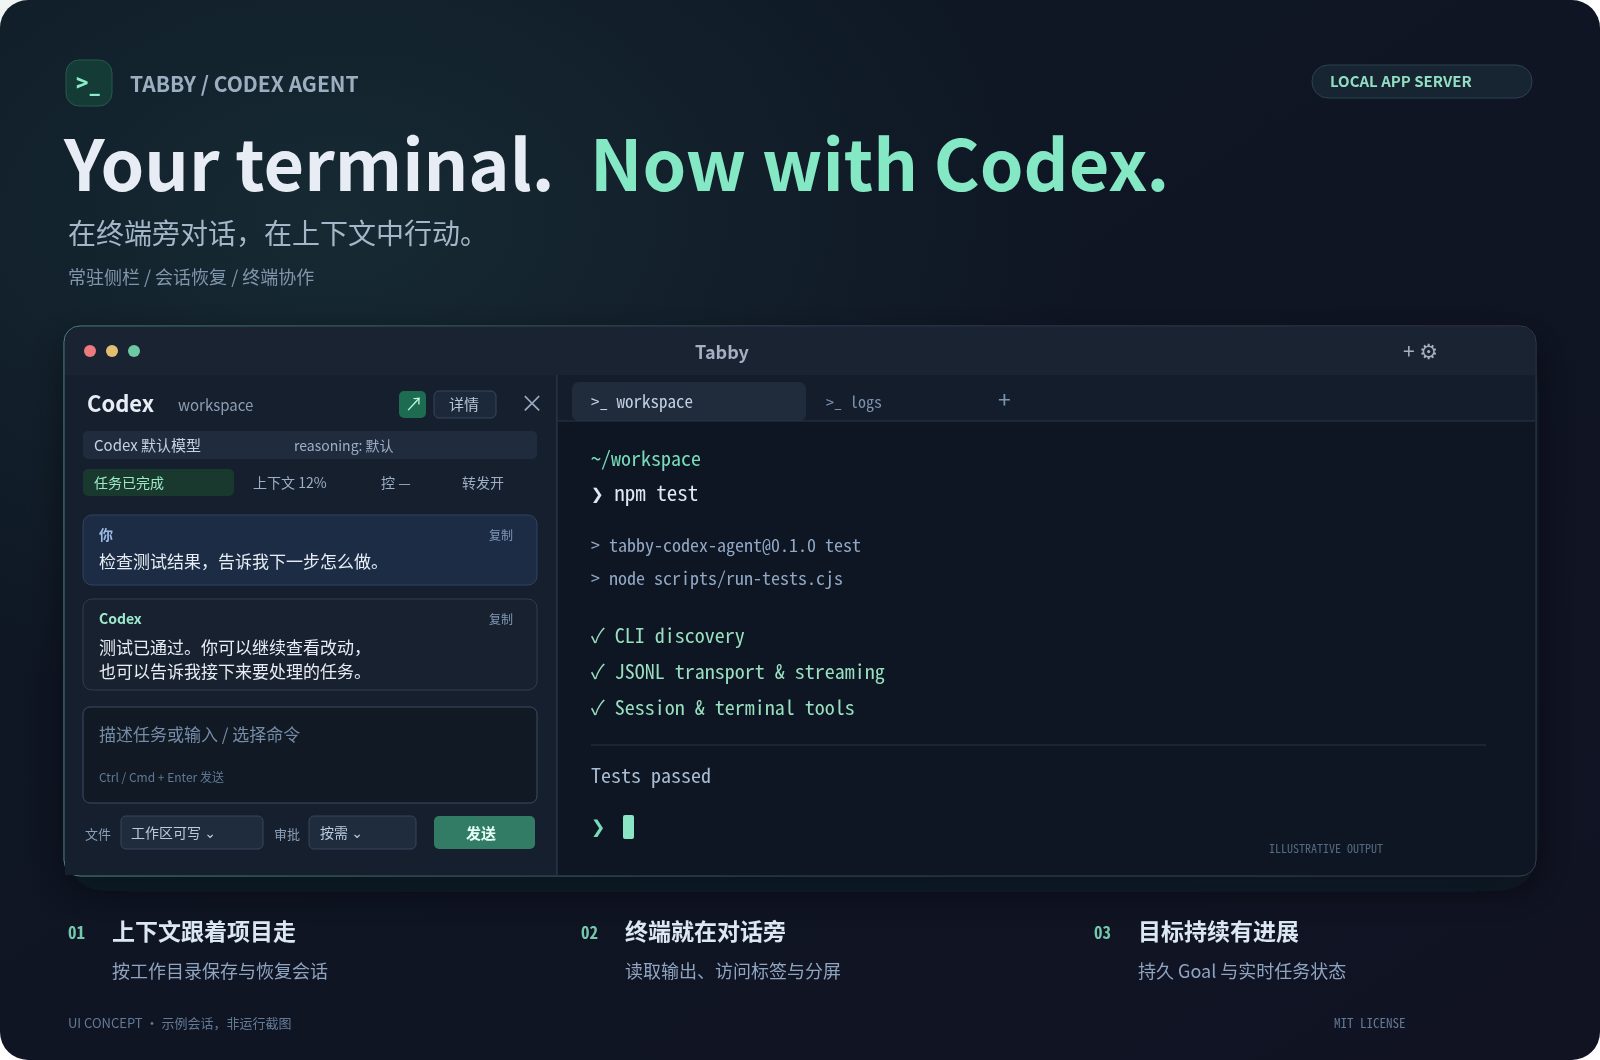
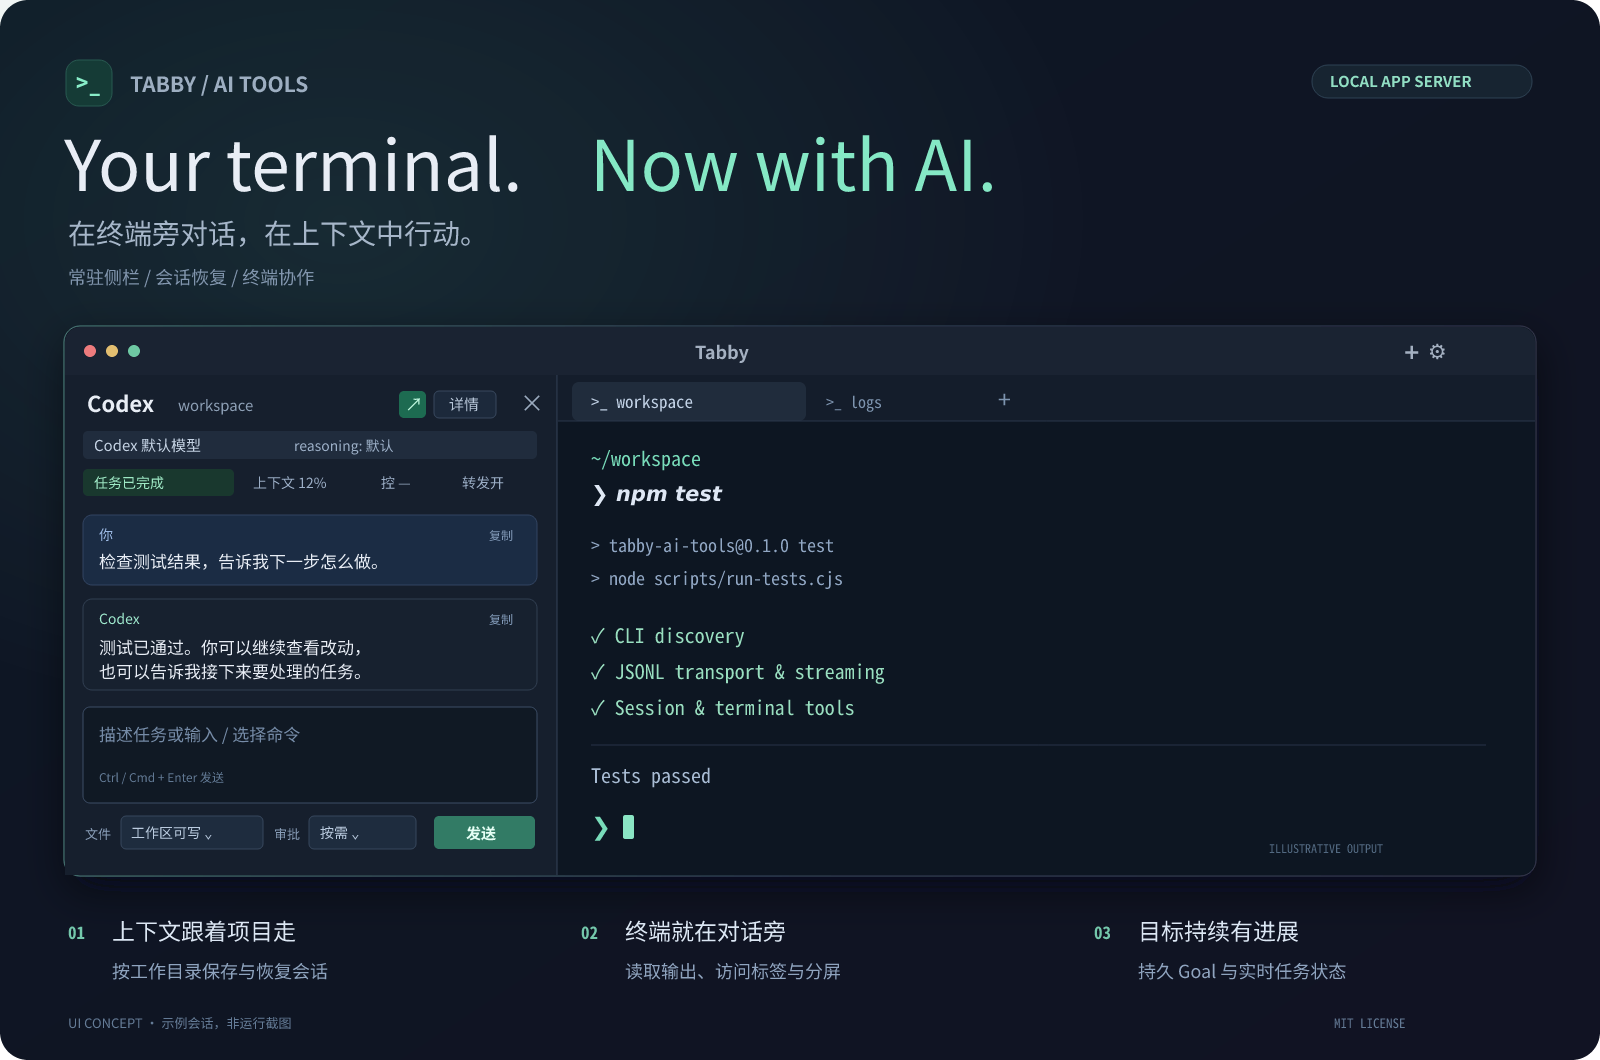
chore: rename plugin to Tabby AI Tools for npm release

diff --git a/src/button.ts b/src/button.ts
@@ -11,7 +11,7 @@ export class CodexToolbarButtonProvider extends ToolbarButtonProvider {
   constructor (private app: AppService, private config: ConfigService, private sidebar: CodexSidebarService, private notifications: NotificationsService) { super() }
 
   provide (): ToolbarButton[] {
-    return [{ icon: '<svg xmlns="http://www.w3.org/2000/svg" viewBox="0 0 24 24"><path fill="currentColor" d="M12 2a3 3 0 0 1 3 3v1h3a3 3 0 0 1 3 3v9a3 3 0 0 1-3 3H6a3 3 0 0 1-3-3V9a3 3 0 0 1 3-3h3V5a3 3 0 0 1 3-3Zm0 2a1 1 0 0 0-1 1v1h2V5a1 1 0 0 0-1-1ZM6 8a1 1 0 0 0-1 1v9a1 1 0 0 0 1 1h12a1 1 0 0 0 1-1V9a1 1 0 0 0-1-1H6Zm3 4a1.5 1.5 0 1 1 0 3 1.5 1.5 0 0 1 0-3Zm6 0a1.5 1.5 0 1 1 0 3 1.5 1.5 0 0 1 0-3Z"/></svg>', title: 'AI Agent', weight: 8, click: () => { void this.open().catch(error => console.error("Could not open Codex sidebar:", error)) } }]
+    return [{ icon: '<svg xmlns="http://www.w3.org/2000/svg" viewBox="0 0 24 24"><path fill="currentColor" d="M12 2a3 3 0 0 1 3 3v1h3a3 3 0 0 1 3 3v9a3 3 0 0 1-3 3H6a3 3 0 0 1-3-3V9a3 3 0 0 1 3-3h3V5a3 3 0 0 1 3-3Zm0 2a1 1 0 0 0-1 1v1h2V5a1 1 0 0 0-1-1ZM6 8a1 1 0 0 0-1 1v9a1 1 0 0 0 1 1h12a1 1 0 0 0 1-1V9a1 1 0 0 0-1-1H6Zm3 4a1.5 1.5 0 1 1 0 3 1.5 1.5 0 0 1 0-3Zm6 0a1.5 1.5 0 1 1 0 3 1.5 1.5 0 0 1 0-3Z"/></svg>', title: 'AI Tools', weight: 8, click: () => { void this.open().catch(error => console.error("Could not open Codex sidebar:", error)) } }]
   }
 
   private async open (): Promise<void> {
@@ -28,7 +28,7 @@ export class CodexToolbarButtonProvider extends ToolbarButtonProvider {
     }
     cwd = path.resolve(cwd)
     try { this.sidebar.show(cwd, sourceTerminal) } catch (error: any) {
-      this.notifications.error('无法打开 AI Agent 侧栏', String(error?.message || error))
+      this.notifications.error('无法打开 AI Tools 侧栏', String(error?.message || error))
       throw error
     }
   }

diff --git a/src/codex-client.ts b/src/codex-client.ts
@@ -60,7 +60,7 @@ export class CodexClient extends EventEmitter {
       detached: process.platform !== 'win32',
     }) as ChildProcessWithoutNullStreams
     let stderr = ''
-    const failure = (error: Error): Error => new Error(`${error.message}\nCodex CLI: ${executable}${stderr.trim() ? `\n${stderr.trim()}` : ''}\n请检查 Settings → AI Agent → codexAgent.executable。`)
+    const failure = (error: Error): Error => new Error(`${error.message}\nCodex CLI: ${executable}${stderr.trim() ? `\n${stderr.trim()}` : ''}\n请检查 Settings → AI Tools → codexAgent.executable。`)
     const streamError = (error: NodeJS.ErrnoException): void => {
       // A process that exits during startup may close stdin before its stderr
       // has drained. Let 'close' report the exit and the actual CLI error.
@@ -90,7 +90,7 @@ export class CodexClient extends EventEmitter {
     })
     try {
       await this.requestRaw('initialize', {
-        clientInfo: { name: 'tabby_codex_agent', title: 'Tabby Codex Agent', version: '0.1.0' },
+        clientInfo: { name: 'tabby_codex_agent', title: 'Tabby AI Tools', version: '0.1.0' },
         capabilities: { experimentalApi: true },
       })
     } catch (error: any) {

diff --git a/src/codex-runtime.service.ts b/src/codex-runtime.service.ts
@@ -55,7 +55,7 @@ export class CodexRuntimeService implements OnDestroy {
       if (this.stopped || executable !== this.configuredExecutable) return
       if (!this.errorReported) {
         this.errorReported = true
-        this.notifications.error('Codex 后台服务启动失败', `${error.message}。请检查 Settings → AI Agent → Codex CLI 可执行文件（codexAgent.executable），插件会自动重试。`)
+        this.notifications.error('Codex 后台服务启动失败', `${error.message}。请检查 Settings → AI Tools → Codex CLI 可执行文件（codexAgent.executable），插件会自动重试。`)
       }
       this.scheduleRetry()
     }

diff --git a/test/client.test.js b/test/client.test.js
@@ -296,7 +296,7 @@ rl.on('line', line => {
 `)
     await client.connect(executable)
     const result = await client.request('identity')
-    assert.deepEqual(result.clientInfo, { name: 'tabby_codex_agent', title: 'Tabby Codex Agent', version: '0.1.0' })
+    assert.deepEqual(result.clientInfo, { name: 'tabby_codex_agent', title: 'Tabby AI Tools', version: '0.1.0' })
     assert.deepEqual(result.overrides, [])
     assert.deepEqual(result.args, ['app-server', '--listen', 'stdio://'])
     assert.equal(process.env.CODEX_INTERNAL_ORIGINATOR_OVERRIDE, 'parent-identity')

diff --git a/src/codex-executable.ts b/src/codex-executable.ts
@@ -2,7 +2,7 @@ import * as fs from 'fs'
 import * as os from 'os'
 import * as path from 'path'
 
-const SETTING_HELP = '请在 Tabby Settings → AI Agent → Codex CLI 可执行文件（codexAgent.executable）中设置有效文件路径或命令名。'
+const SETTING_HELP = '请在 Tabby Settings → AI Tools → Codex CLI 可执行文件（codexAgent.executable）中设置有效文件路径或命令名。'
 const WINDOWS_EXTENSIONS = ['.exe', '.com', '.cmd', '.bat']
 
 export interface ExecutableContext {

diff --git a/src/codex-panel.component.ts b/src/codex-panel.component.ts
@@ -824,7 +824,7 @@ export class CodexPanelComponent implements AfterViewInit, OnDestroy {
       return
     }
     if (!session || session.cwd !== this.cwd || session.originator !== 'tabby_codex_agent') {
-      this.historyError = '所选会话不属于当前目录的 Tabby AI Agent，请刷新列表'
+      this.historyError = '所选会话不属于当前目录的 Tabby AI Tools，请刷新列表'
       return
     }
     if (session.id === this.threadId) { this.historyOpen = false; return }

diff --git a/src/api-agent.ts b/src/api-agent.ts
@@ -51,7 +51,7 @@ export class ApiAgent extends EventEmitter implements AgentBackend {
   get isConnected (): boolean { return this.connected }
 
   async connect (_settings: AgentSettings): Promise<void> {
-    if (!this.profile.model.trim()) throw new Error('请先在 AI Agent 设置中填写模型 ID')
+    if (!this.profile.model.trim()) throw new Error('请先在 AI Tools 设置中填写模型 ID')
     if (!this.connected) { this.connected = true; this.emit('connected') }
   }
 

diff --git a/test/user-input.test.js b/test/user-input.test.js
@@ -531,7 +531,7 @@ test('resume does not accept sessions created by another client', async () => {
   panel.cwd = '/project'
   panel.loading = false
   await panel.selectSession({ id: 'other', cwd: '/project', originator: 'codex_cli_rs' })
-  assert.match(panel.historyError, /Tabby AI Agent/)
+  assert.match(panel.historyError, /Tabby AI Tools/)
 })
 
 test('resume supports arrow selection and Enter while empty prompt remains unsent', () => {

diff --git a/src/sidebar.service.ts b/src/sidebar.service.ts
@@ -75,7 +75,7 @@ export class CodexSidebarService implements OnDestroy {
     }
     this.host = document.createElement('aside')
     this.host.className = 'codex-agent-sidebar'
-    this.host.setAttribute('aria-label', 'AI Agent 侧栏')
+    this.host.setAttribute('aria-label', 'AI Tools 侧栏')
     this.grip = document.createElement('div')
     this.grip.className = 'codex-sidebar-grip'
     this.grip.setAttribute('role', 'separator')

diff --git a/src/agent-secrets.service.ts b/src/agent-secrets.service.ts
@@ -9,7 +9,7 @@ export class AgentSecretsService {
     const source = apiKeySource(profile)
     if (source === 'direct') {
       const value = profile.apiKey?.trim()
-      if (!value) throw new Error('请在 AI Agent 设置中填写 API Key')
+      if (!value) throw new Error('请在 AI Tools 设置中填写 API Key')
       return value
     }
     if (source === 'environment') {

diff --git a/src/settings.ts b/src/settings.ts
@@ -237,6 +237,6 @@ export class CodexSettingsComponent implements OnDestroy {
 export class CodexSettingsTabProvider extends SettingsTabProvider {
   id = 'codex-agent'
   icon = 'robot'
-  title = 'AI Agent'
+  title = 'AI Tools'
   getComponentType (): any { return CodexSettingsComponent }
 }
